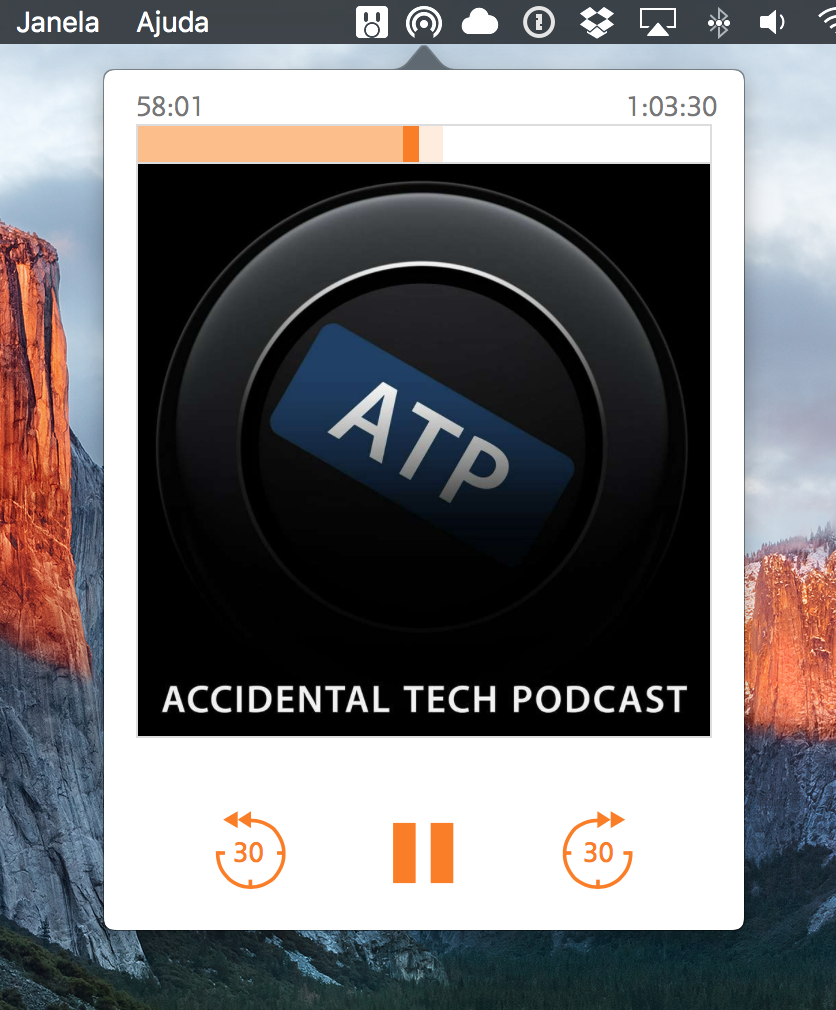
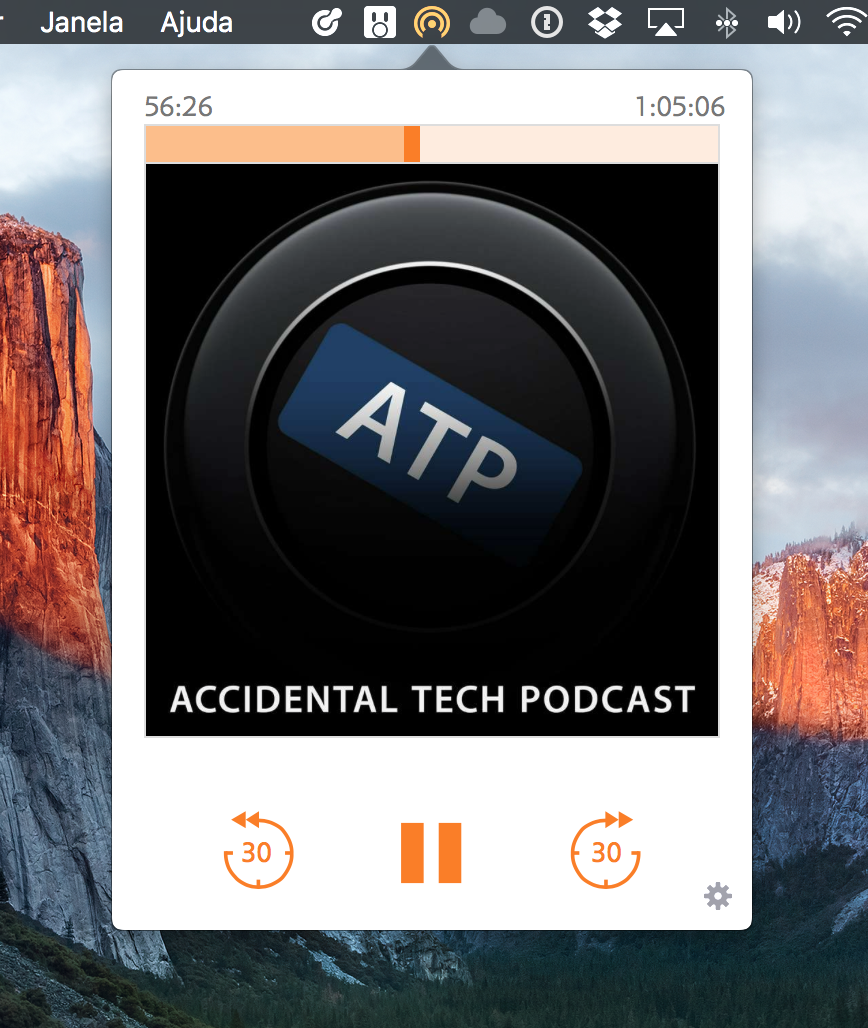
Updated readme and screenshot

diff --git a/Readme.md b/Readme.md
@@ -12,7 +12,7 @@ While the app is playing a podcast, you can use your keyboard's media keys to co
 
 # Download
 
-[⬇ Click here to download the latest release](https://github.com/insidegui/PodcastMenu/raw/master/Releases/PodcastMenu_v1.0.zip).
+[⬇ Click here to download the latest release](https://github.com/insidegui/PodcastMenu/raw/master/Releases/PodcastMenu_v1.1.zip).
 
 ![screenshot](screenshot.png)
 
